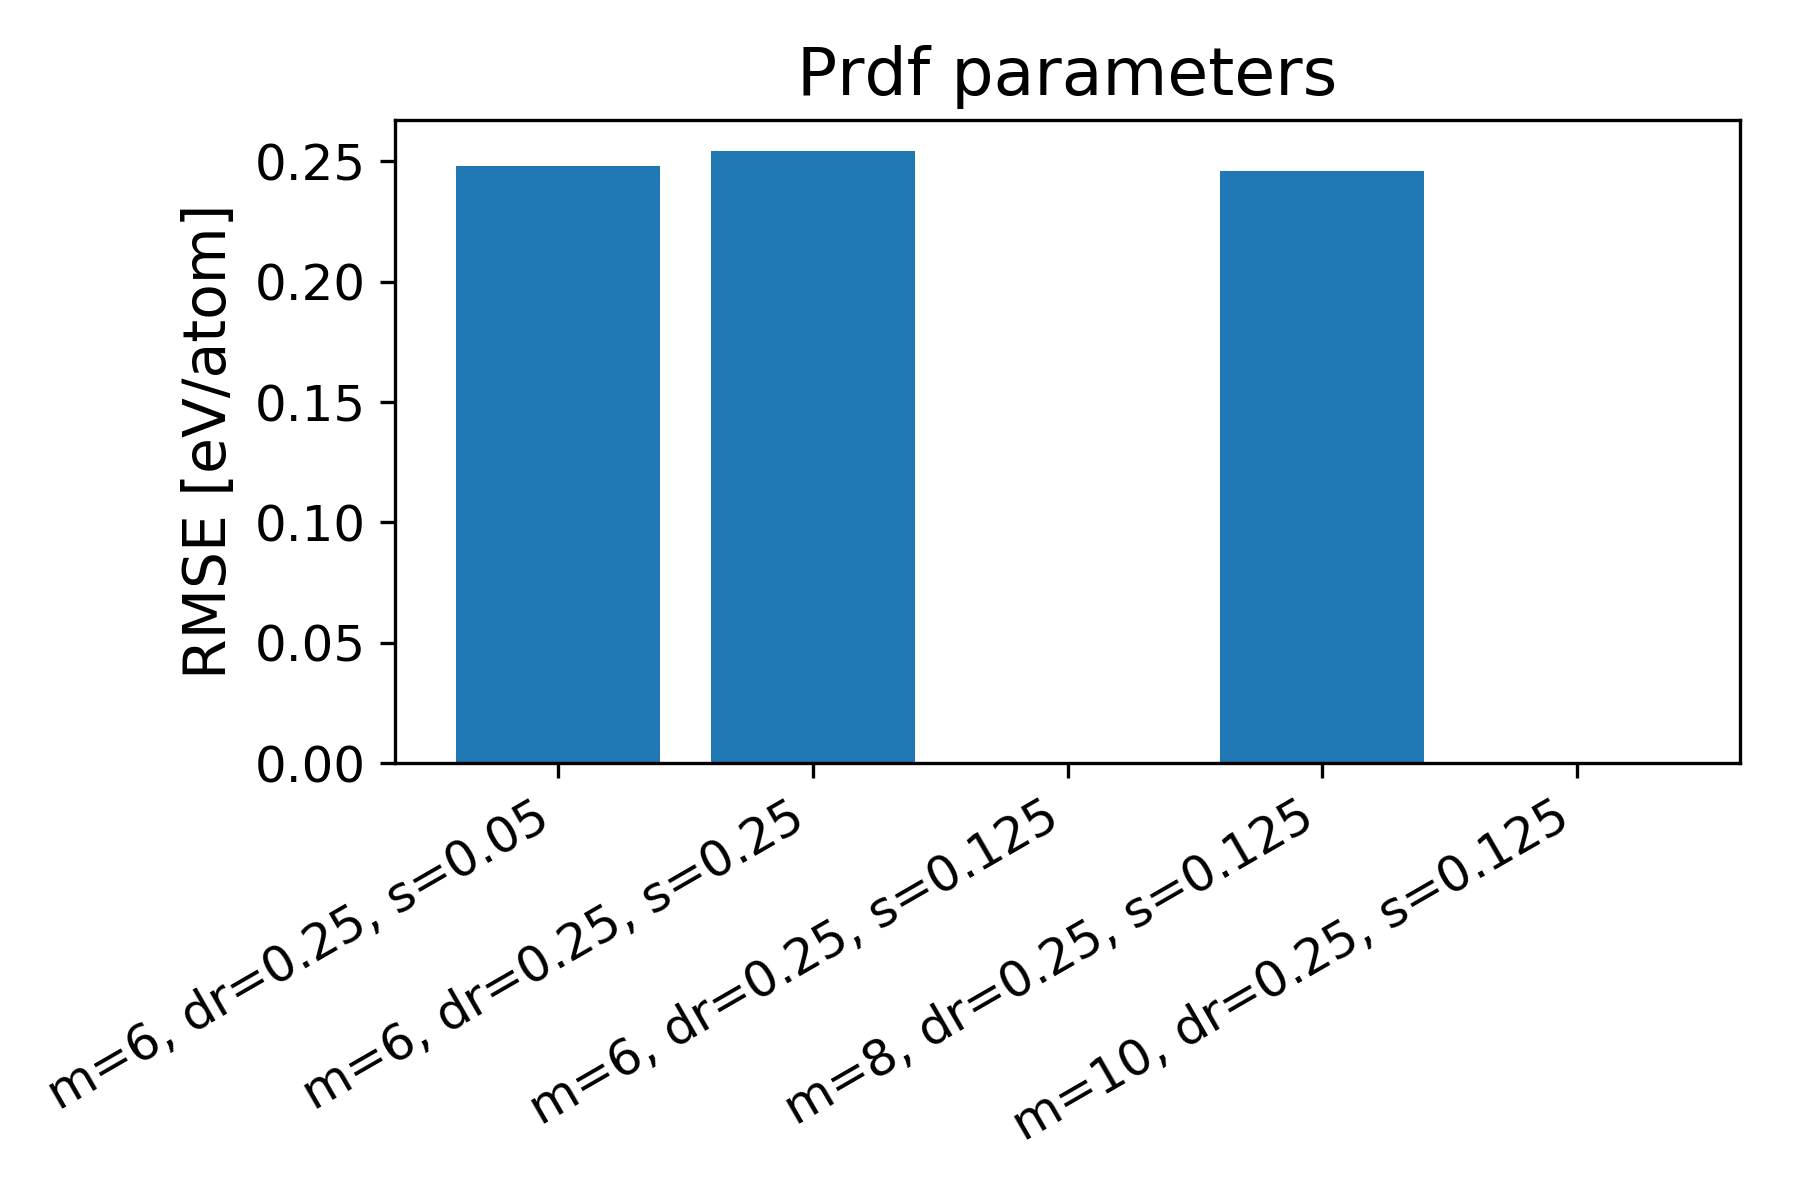
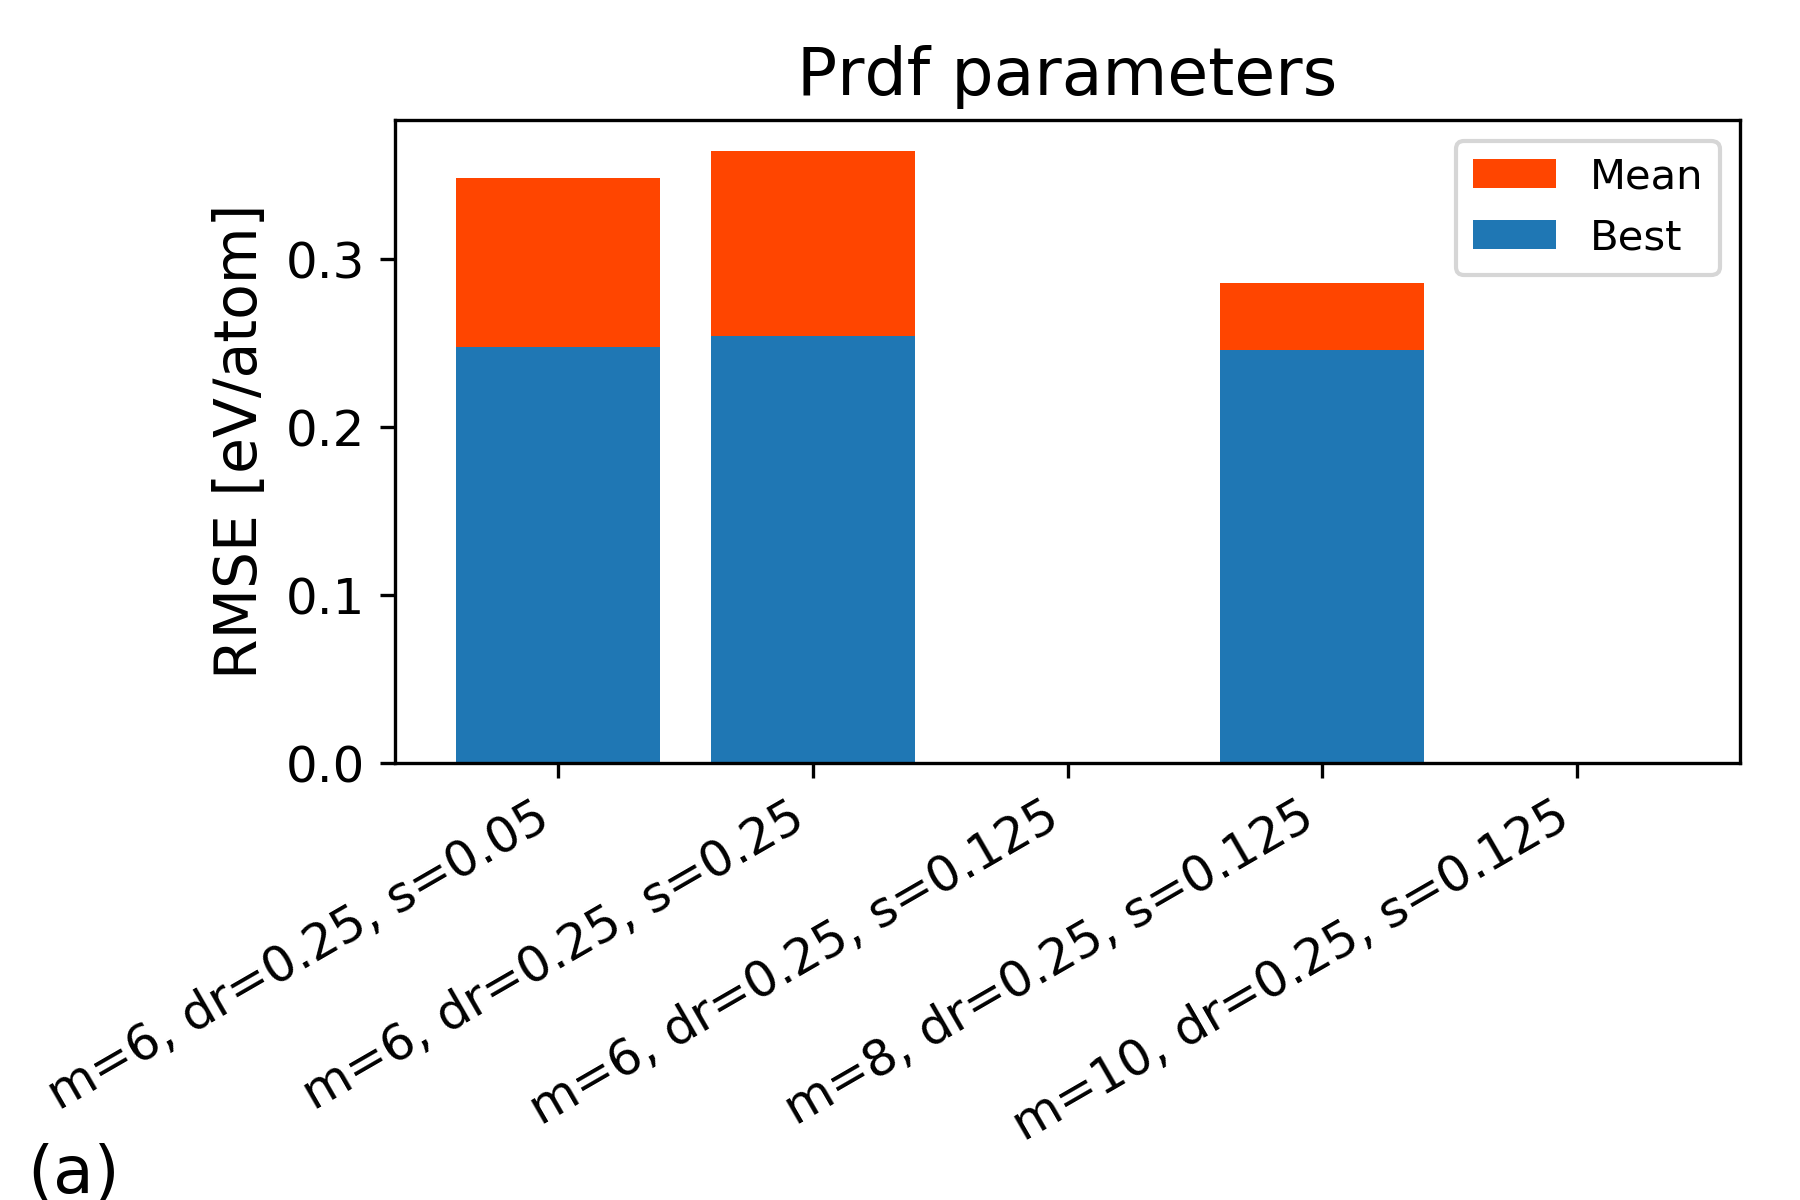
s

diff --git a/NN/find_minimum.py b/NN/find_minimum.py
@@ -47,6 +47,7 @@ for di in data:
     di['rmse']=np.sqrt(np.mean(history['mean_squared_error'][-10:]))
     di['rmse_val']=np.sqrt(np.mean(history['val_mean_squared_error'][-10:]))
 
+
 minimum=100
 for di in data:
     if di['rmse_val']<minimum:
@@ -101,7 +102,7 @@ anumxanum=np.mean(anumxanum)
 grpprdgrpprd2x2=np.mean(grpprdgrpprd2x2)
 
 mean_list={'acti':[relu,sigmoid], 'm_folder':[fol03_01,fol04_01,fol11_10,fol09_01,fol09_01ny], 'm_func':[anumxanum,grpprdgrpprd2x2,grpprdxgrpprd]}
-
+sub_letters={'N':'(a)','drop':'(c)','nhidden':'(b)','m_folder':'(a)','m_func':'(b)','acti':''}
 titles={'N':'RMSE vs. size of first layer after input layer','drop':'RMSE vs. dropout regularization','acti':'Activation function','nhidden':'RMSE vs. number of hidden layers','m_folder':'Prdf parameters','m_func':'Feature matrix shape'}
 xlabels={'N':'Layer size','drop':'Dropout value','nhidden':'Number of hidden layers'}
 for param in ['N','drop','nhidden']:
@@ -117,19 +118,27 @@ for param in ['N','drop','nhidden']:
     
     list_param=[di[param] for di in plot_list]
     list_rmse=[di['rmse_val'] for di in plot_list]
+    list_train=[di['rmse'] for di in plot_list]
     
     l1,l2=zip(*sorted(zip(list_param, list_rmse)))
     l1=list(l1)
     l2=list(l2)
     
+    l1,l2_train=zip(*sorted(zip(list_param, list_train)))
+    l1=list(l1)
+    l2_train=list(l2_train)
+    
     if param=='nhidden':
         l1.pop(0)
         l2.pop(0)
+        l2_train.pop(0)
         ax = plt.figure().gca()
         ax.xaxis.set_major_locator(MaxNLocator(integer=True))
         
     
     plt.plot(l1,l2)
+    plt.plot(l1,l2_train, color='orangered')
+    plt.legend(['Validation','Training'])
 
     
     plt.title(titles[param],fontsize=16)
@@ -138,6 +147,7 @@ for param in ['N','drop','nhidden']:
     plt.xticks(fontsize=12)
     plt.yticks(fontsize=12)
     plt.tight_layout()
+    plt.text(-0.1,-0.13,sub_letters[param],size=16, transform=ax.transAxes)
     plt.savefig(f'../Plots/{param}.png',dpi=300)
     plt.show()
     
@@ -158,8 +168,20 @@ for param in ['acti','m_folder','m_func']:
         l2.append(best)
     
     
+    m_list=[]
+    for val in l1:
+        m=[]
+        for di in data:
+            if di[param]==val:
+                m.append(di['rmse_val'])
+        m_list.append(np.mean(m))
+    
+    
     ticks=[tick_names[name] for name in l1]
+    plt.bar(ticks,m_list,color='orangered')
     plt.bar(ticks,l2)
+    plt.legend(['Mean','Best'])
+    
     if param == 'm_folder':
         plt.xticks(rotation='30', ha='right')
     if param== 'acti':
@@ -170,6 +192,7 @@ for param in ['acti','m_folder','m_func']:
     plt.xticks(fontsize=12)
     plt.yticks(fontsize=12)
     plt.tight_layout()
+    plt.text(-0.1,-0.2,sub_letters[param],size=16, transform=ax.transAxes)
     plt.savefig(f'../Plots/{param}.png',dpi=300)
     plt.show()
 
